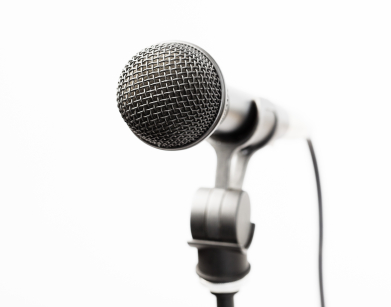
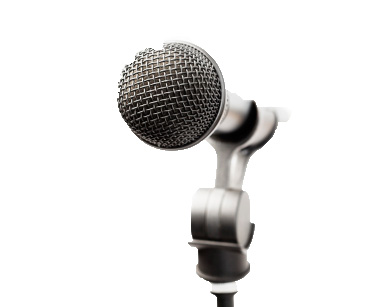
fix for mobile

diff --git a/css/style.css b/css/style.css
@@ -459,7 +459,7 @@ h6 {
   }
 }
 .home {
-  background-image: url(../images/podium.png);
+  background-image: url(../images/hero-img9.jpg);
   background-position: top center;
   background-attachment: fixed;
   background-repeat: no-repeat;
@@ -485,11 +485,11 @@ h6 {
   font-family: "Oswald";
   color: #fff;
   text-transform: uppercase;
-  font-size: 70px;
-  line-height: 85px;
+  font-size: 30px;
+  line-height: 40px;
   font-weight: 400;
-  letter-spacing: 8px;
-  word-spacing: 4px;
+  letter-spacing: 2px;
+  word-spacing: 1px;
   margin-bottom: 15px;
   margin-top: 5px;
   padding: 20px 10px;
@@ -1618,6 +1618,12 @@ footer.site-footer a:hover {
   .st-navbar-mini .navbar-default .navbar-nav > li > a {
     padding-top: 20px;
     padding-bottom: 20px;
+  }
+  .home .hero-txt .hero-title {
+  font-size: 70px;
+  line-height: 80px;
+  letter-spacing: 8px;
+  word-spacing: 4px;
   }
 }
 @media (min-width: 1440px) {

diff --git a/index.html b/index.html
@@ -64,12 +64,10 @@
 				<div class="row">
 					<div class="col-md-12">
 						<div class="st-home-unit">
-							<div class="hero-txt">
-								<p class="hero-work">Where Leaders Are Made - Conquer the stage!</p>
-								<h2 class="hero-title">WELCOME TO BANGALORE TOASTMASTERS CLUB</h2>
-								<!-- <p class="hero-sub-title">We Provide Hight Quality Bootstrap Template</p> -->
-								<!-- <a href="#" class="btn btn-default btn-lg left-btn">Purchase Now</a> -->
-								<a href="#" class="btn btn-main btn-lg">Find Out More</a>
+							<div class="hero-txt">								
+									<p class="hero-work">Where Leaders Are Made - Conquer the stage!</p>
+									<h2 class="hero-title">WELCOME TO BANGALORE TOASTMASTERS CLUB</h2>
+									<a href="#" class="btn btn-main btn-lg">Find Out More</a>							
 							</div>
 
 						</div>
